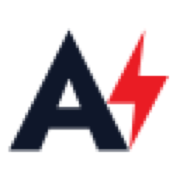
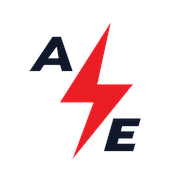
feat(brand): adopt unchopped balanced A-E emblem and all-caps ASTAR wordmark v1.4.4

diff --git a/src/app/shared/components/header/header.component.html b/src/app/shared/components/header/header.component.html
@@ -9,22 +9,21 @@
       class="flex items-center gap-2.5 sm:gap-3.5 group focus:outline-none focus:ring-2 focus:ring-[#ea1c24] rounded-xl p-1 shrink-0"
       aria-label="AStar Electricals — Home"
     >
-      <!-- AStar Official Emblem: Jost Sharp "A" + Red Bolt -->
-      <div class="h-10 sm:h-11 flex items-center justify-center p-1 group-hover:scale-105 transition-all shrink-0">
-        <svg class="w-9 h-9 sm:w-10 sm:h-10" viewBox="0 0 25 24" fill="none" aria-hidden="true">
-          <path d="M 9.4,3.0 L 18.33,21.0 L 13.69,21.0 L 12.38,17.73 L 6.43,17.73 L 5.12,21.0 L 0.5,21.0 Z M 9.4,10.28 L 7.67,14.61 L 11.13,14.61 Z"
-                class="fill-[#0F172A] dark:fill-white" fill-rule="evenodd" />
-          <path d="M 20.6,3.0 L 19.75,9.95 L 24.1,9.95 L 18.35,21.0 L 19.15,13.95 L 15.0,13.95 Z"
-                fill="#EA1C24" />
+      <!-- AStar Official Emblem: Slanted A & E with Lightning Bolt (Balanced, Unchopped) -->
+      <div class="h-10 sm:h-11 flex items-center justify-center p-0.5 group-hover:scale-105 transition-all shrink-0">
+        <svg class="w-9 h-9 sm:w-10 sm:h-10" viewBox="0 0 1254 1254" fill="none" aria-hidden="true">
+          <path d="M 300 163 L 374 163 L 476 462 L 382 462 L 366 409 L 227 409 L 193 462 L 100 462 Z M 337 250 L 353 350 L 264 350 Z" class="fill-[#0F172A] dark:fill-white" fill-rule="evenodd" />
+          <path d="M 808 37 L 364 736 L 657 736 L 474 1230 L 1002 577 L 691 577 Z" fill="#EA1C24" />
+          <path d="M 830 874 L 1069 874 L 1050 942 L 908 942 L 896 986 L 1014 986 L 996 1050 L 878 1050 L 866 1094 L 1022 1094 L 1004 1159 L 748 1159 Z" class="fill-[#0F172A] dark:fill-white" />
         </svg>
       </div>
 
       <div class="flex flex-col justify-center leading-none">
-        <span class="font-brand font-black text-lg sm:text-2xl tracking-tight text-stone-950 dark:text-white leading-none">
-          AStar
+        <span class="font-brand font-black text-lg sm:text-2xl tracking-tight leading-none text-stone-950 dark:text-white">
+          A<span class="text-[#ea1c24]">STAR</span>
         </span>
-        <span class="text-[9px] sm:text-[11px] font-bold tracking-[0.22em] uppercase text-[#ea1c24] leading-none font-brand mt-1">
-          Electricals
+        <span class="text-[9px] sm:text-[11px] font-bold tracking-[0.22em] uppercase text-stone-900 dark:text-stone-100 leading-none font-brand mt-1">
+          ELECTRICALS
         </span>
       </div>
     </a>

diff --git a/src/app/shared/components/footer/footer.component.html b/src/app/shared/components/footer/footer.component.html
@@ -5,21 +5,20 @@
       <!-- Brand & Mission (5 cols) -->
       <div class="md:col-span-5 space-y-4">
         <div class="flex items-center gap-3">
-          <!-- AStar Official Emblem: Jost Sharp "A" + Red Bolt (Light on Dark) -->
-          <div class="h-10 flex items-center justify-center p-1 shrink-0">
-            <svg class="w-9 h-9" viewBox="0 0 25 24" fill="none" aria-hidden="true">
-              <path d="M 9.4,3.0 L 18.33,21.0 L 13.69,21.0 L 12.38,17.73 L 6.43,17.73 L 5.12,21.0 L 0.5,21.0 Z M 9.4,10.28 L 7.67,14.61 L 11.13,14.61 Z"
-                    fill="#ffffff" fill-rule="evenodd" />
-              <path d="M 20.6,3.0 L 19.75,9.95 L 24.1,9.95 L 18.35,21.0 L 19.15,13.95 L 15.0,13.95 Z"
-                    fill="#EA1C24" />
+          <!-- AStar Official Emblem: Slanted A & E with Lightning Bolt (Balanced, Unchopped) -->
+          <div class="h-10 flex items-center justify-center p-0.5 shrink-0">
+            <svg class="w-9 h-9" viewBox="0 0 1254 1254" fill="none" aria-hidden="true">
+              <path d="M 300 163 L 374 163 L 476 462 L 382 462 L 366 409 L 227 409 L 193 462 L 100 462 Z M 337 250 L 353 350 L 264 350 Z" fill="#ffffff" fill-rule="evenodd" />
+              <path d="M 808 37 L 364 736 L 657 736 L 474 1230 L 1002 577 L 691 577 Z" fill="#EA1C24" />
+              <path d="M 830 874 L 1069 874 L 1050 942 L 908 942 L 896 986 L 1014 986 L 996 1050 L 878 1050 L 866 1094 L 1022 1094 L 1004 1159 L 748 1159 Z" fill="#ffffff" />
             </svg>
           </div>
           <div class="flex flex-col justify-center leading-none">
             <span class="text-2xl font-black text-white tracking-tight font-brand leading-none">
-              AStar
+              A<span class="text-[#ea1c24]">STAR</span>
             </span>
-            <span class="text-[11px] font-bold tracking-[0.22em] uppercase text-[#ea1c24] leading-none font-brand mt-1">
-              Electricals
+            <span class="text-[11px] font-bold tracking-[0.22em] uppercase text-stone-200 leading-none font-brand mt-1">
+              ELECTRICALS
             </span>
           </div>
         </div>

diff --git a/src/app/shared/components/commercial-showcase/commercial-showcase.component.ts b/src/app/shared/components/commercial-showcase/commercial-showcase.component.ts
@@ -40,14 +40,13 @@ import { MatIconModule } from '@angular/material/icon';
 
         <!-- Center Brand Hub Node (Clean Light / White Background, No Dark Box) -->
         <div class="relative z-10 w-24 h-24 rounded-2xl bg-white dark:bg-stone-900 border-2 border-[#ea1c24] shadow-xl flex flex-col items-center justify-center p-2 text-center group cursor-default">
-          <svg class="w-6 h-6 mb-1" viewBox="0 0 25 24" fill="none" aria-hidden="true">
-            <path d="M 9.4,3.0 L 18.33,21.0 L 13.69,21.0 L 12.38,17.73 L 6.43,17.73 L 5.12,21.0 L 0.5,21.0 Z M 9.4,10.28 L 7.67,14.61 L 11.13,14.61 Z"
-                  class="fill-[#0F172A] dark:fill-white" fill-rule="evenodd" />
-            <path d="M 20.6,3.0 L 19.75,9.95 L 24.1,9.95 L 18.35,21.0 L 19.15,13.95 L 15.0,13.95 Z"
-                  fill="#EA1C24" />
+          <svg class="w-7 h-7 mb-1" viewBox="0 0 1254 1254" fill="none" aria-hidden="true">
+            <path d="M 300 163 L 374 163 L 476 462 L 382 462 L 366 409 L 227 409 L 193 462 L 100 462 Z M 337 250 L 353 350 L 264 350 Z" class="fill-[#0F172A] dark:fill-white" fill-rule="evenodd" />
+            <path d="M 808 37 L 364 736 L 657 736 L 474 1230 L 1002 577 L 691 577 Z" fill="#EA1C24" />
+            <path d="M 830 874 L 1069 874 L 1050 942 L 908 942 L 896 986 L 1014 986 L 996 1050 L 878 1050 L 866 1094 L 1022 1094 L 1004 1159 L 748 1159 Z" class="fill-[#0F172A] dark:fill-white" />
           </svg>
-          <span class="font-brand font-black text-xs sm:text-sm tracking-tight leading-tight text-stone-950 dark:text-white">AStar</span>
-          <span class="text-[8px] font-brand font-bold text-[#ea1c24] tracking-[0.16em] uppercase leading-none mt-0.5">Electricals</span>
+          <span class="font-brand font-black text-xs sm:text-sm tracking-tight leading-tight text-stone-950 dark:text-white">A<span class="text-[#ea1c24]">STAR</span></span>
+          <span class="text-[8px] font-brand font-bold text-stone-800 dark:text-stone-200 tracking-[0.16em] uppercase leading-none mt-0.5">ELECTRICALS</span>
         </div>
 
         <!-- Node 1: Top (Workplaces) -->
